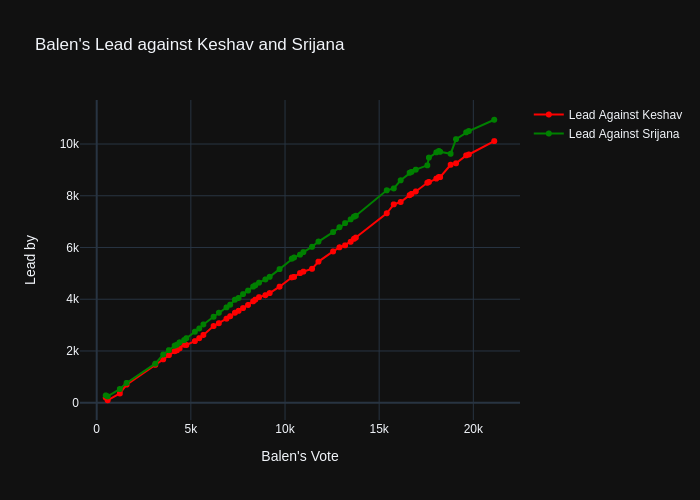
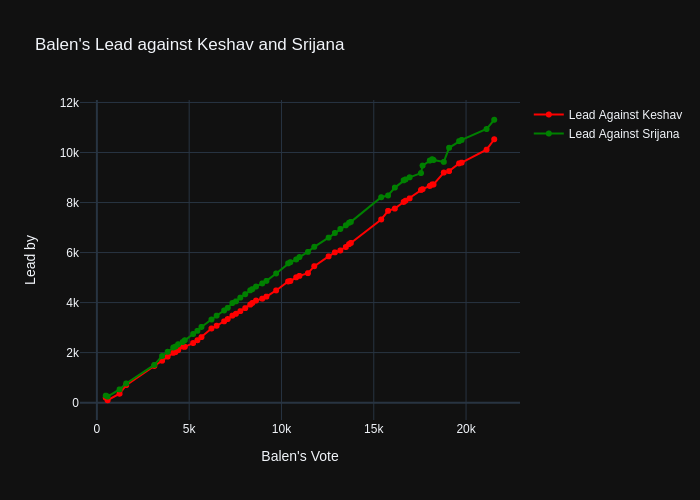
Add data

diff --git a/README.md b/README.md
@@ -1,4 +1,4 @@
-## Last Update: 5/19/2022 6:00
+## Last Update: 5/19/2022 8:20
 
 ## Balen's Lead against Keshav Sthapit and Srijana Singh
 ![ScreenShot](final.jpg)
